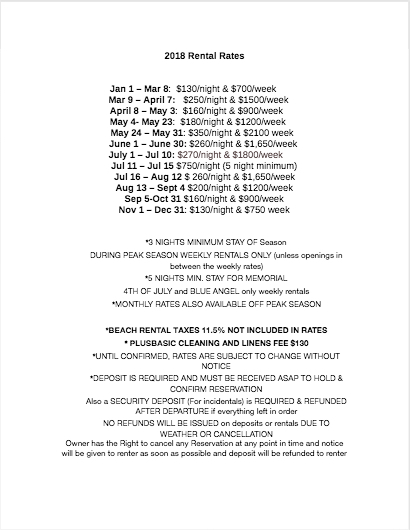
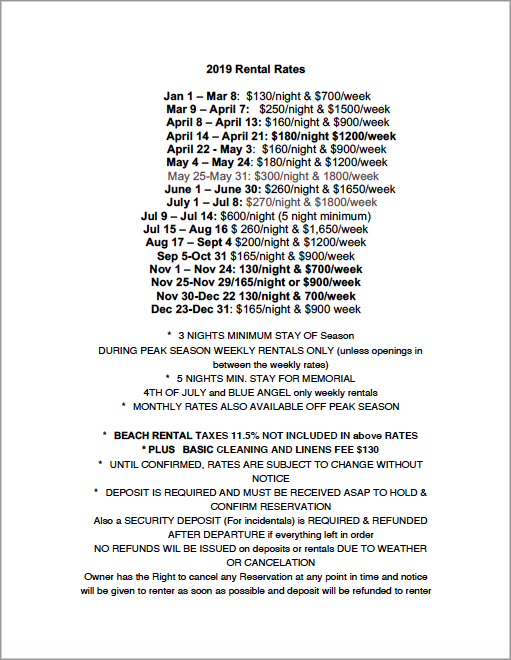
updated 2019 rates and changes to amenities

Changed region(s): [[0.1463, 0.0906, 0.8488, 0.9057], [0.0, 0.0, 1.0, 1.0], [0.761, 0.4528, 0.7902, 0.483]]

diff --git a/amenities.html b/amenities.html
@@ -54,7 +54,7 @@
           <br>
 
           <div class="inner cover">
-            <p class="lead">Villa Sabine Townhomes is a townhouse community situated in a serene but yet convenient location on Pensacola Beach.  The backyard extends to the water’s edge of Villa Sabine Bay.  The Front of the townhome is immediately across the street from the beach.  The townhome sleeps up to 10 with 1 king 2 doubles, 4 twin beds with three bedrooms and three full size bathrooms. TV, cable and wireless internet are in every bedroom. A washer and dryer. 3 dedicated parking spaces - 2 car garage parking under the unit with 1 additional space in front of the unit and shared parking on a first come first served basis.  Bicycles, paddle boat, 3 kayaks , a volleyball court along with other miscellaneous toys/equipment available for use and stored in garage. A gas grill for cookout . During the summer a trolley service is available free of charge to take you to other parts of the beach.  Trolley stop is a few yards down the road and takes you to the center of the beach which is one (1) mile away.  It is also a beautiful walk or bike ride on the bike path.</p>
+            <p class="lead">Villa Sabine Townhomes is a townhouse community situated in a serene but yet convenient location on Pensacola Beach.  The backyard extends to the water’s edge of Villa Sabine Bay.  The Front of the townhome is immediately across the street from the beach.  The townhome sleeps up to 10 with 1 king 2 doubles, 4 twin beds with three bedrooms and three full size bathrooms. TV, cable and wireless internet are in every bedroom. A washer and dryer. 3 dedicated parking spaces - 2 car garage parking under the unit with 1 additional space in front of the unit and shared parking on a first come first served basis.  Bicycles, paddleboard, 3 kayaks, along with other miscellaneous toys/equipment available for use and stored in garage. A gas grill for cookout . During the summer a trolley service is available free of charge to take you to other parts of the beach.  Trolley stop is a few yards down the road and takes you to the center of the beach which is one (1) mile away.  It is also a beautiful walk or bike ride on the bike path.</p>
             <a href="https://www.facebook.com/pages/Pensacola-Beach-Casa/10150092002020195" target="_blank" title="Pensacola Beach Casa">FACEBOOK PAGE</a>
 
             <p>Website by <a href="https://github.com/adias9">Andreas Dias</a></p>
